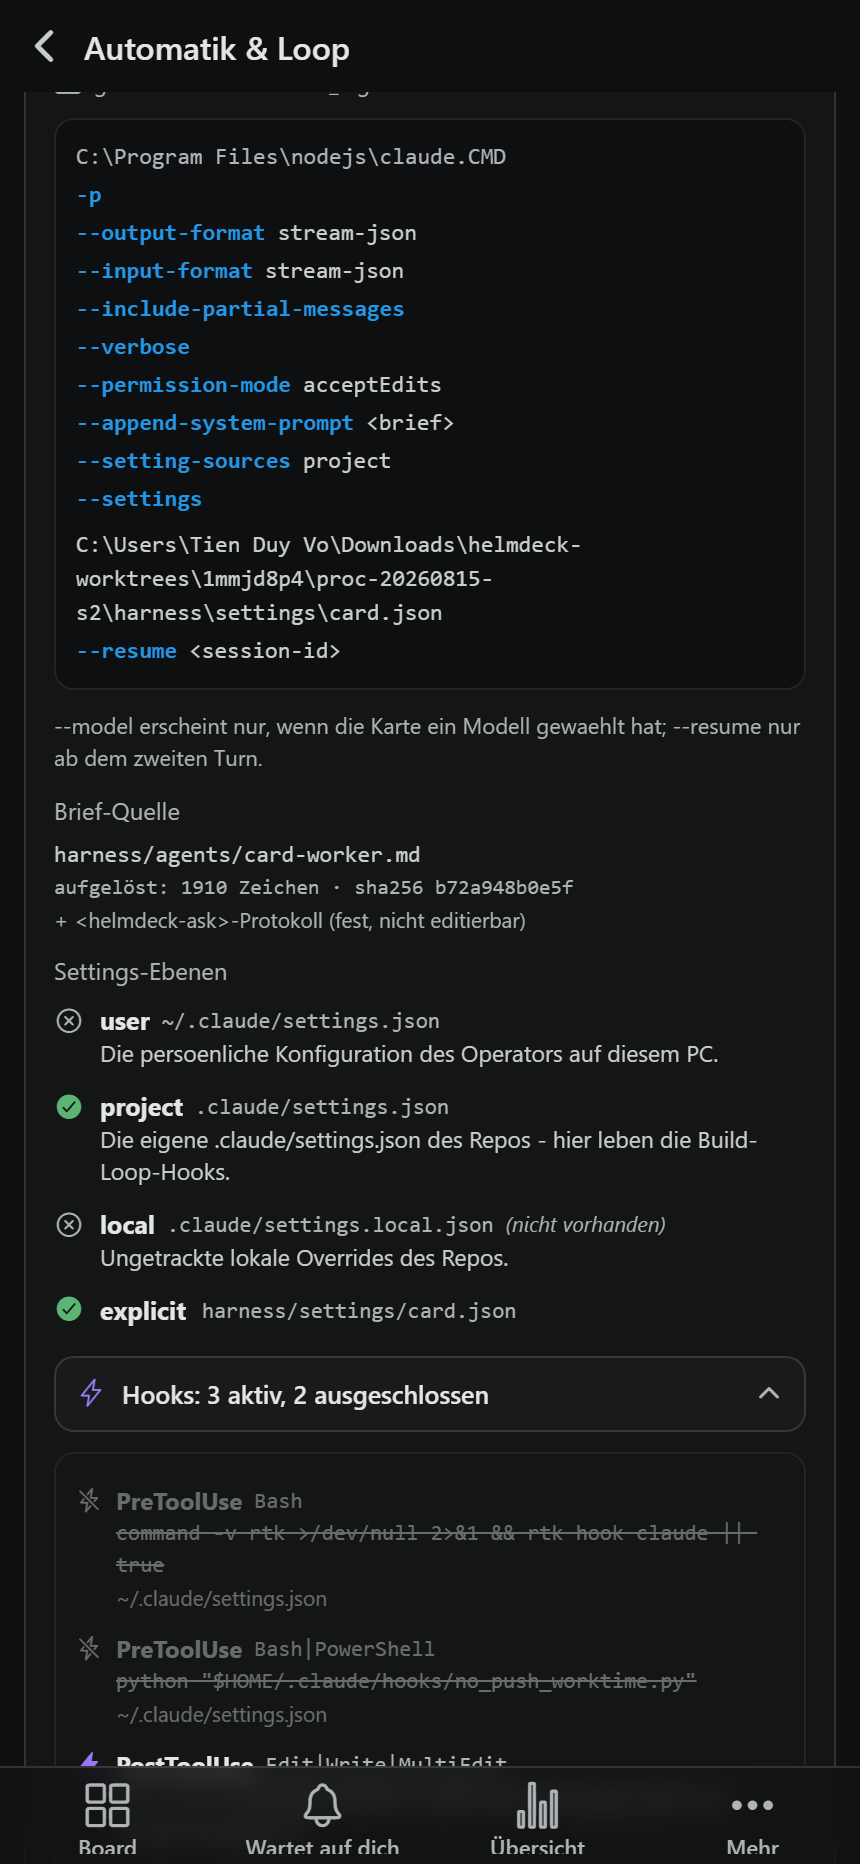
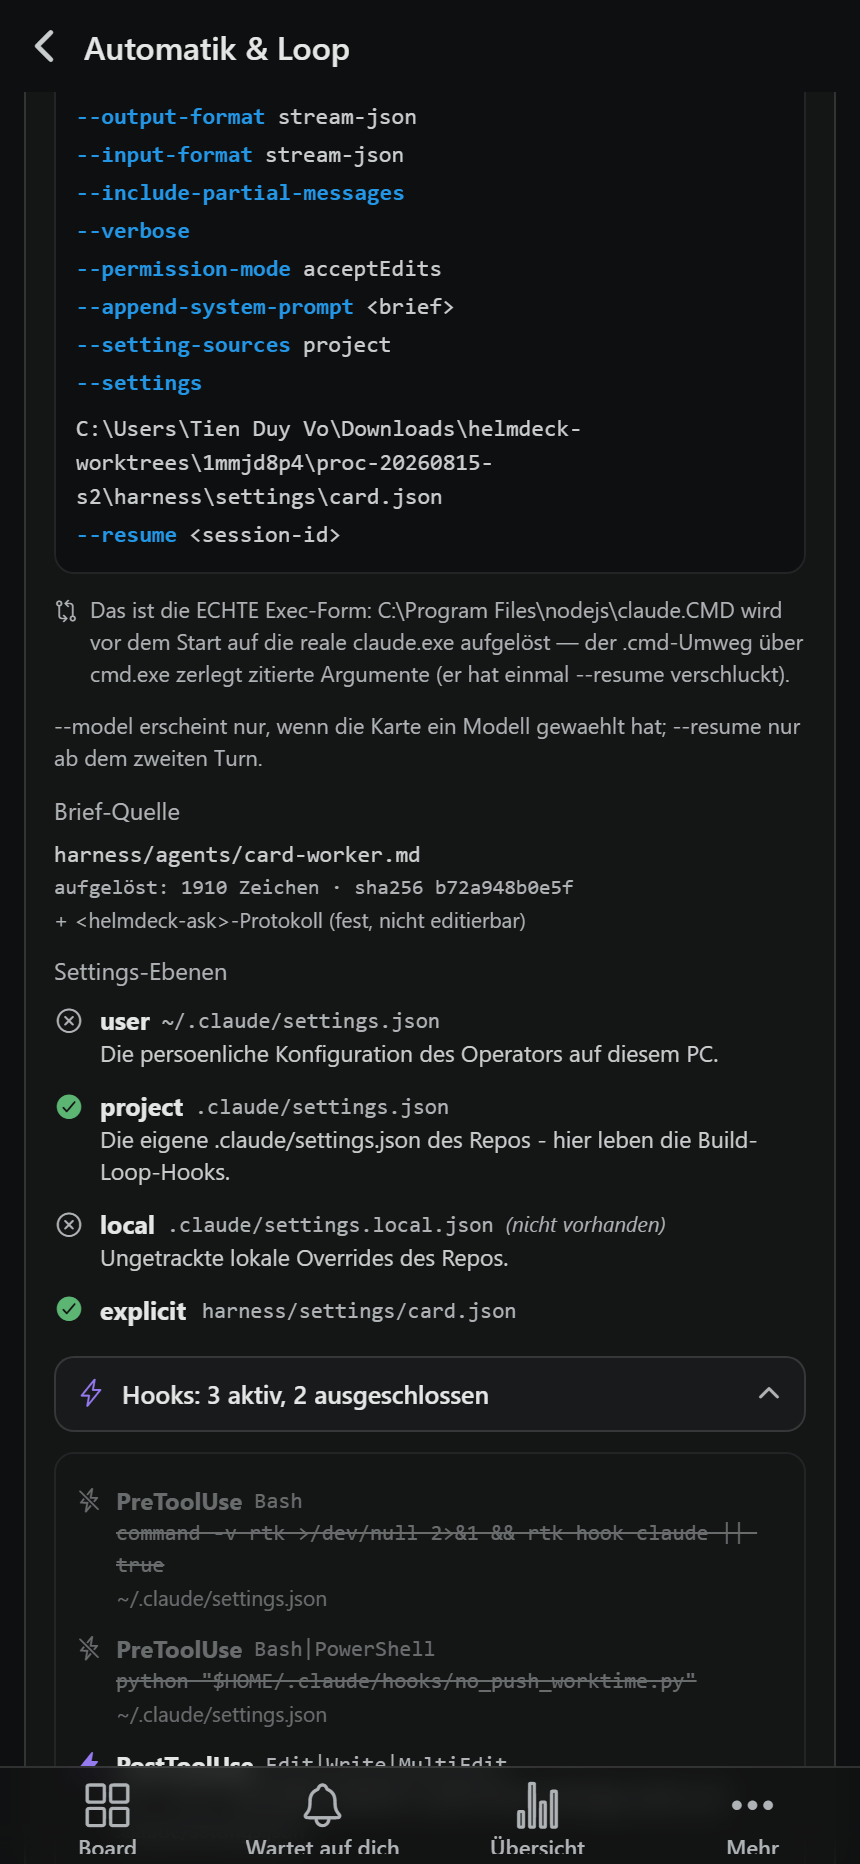
feat(harness): preview the REAL exec form, not just the logical argv
The preview showed argv[0] as `C:\Program Files\nodejs\claude.CMD` - which is
not what runs. drivers._cmd_line rewrites that shim to the real
bin\claude.exe before spawning, because routing a .cmd through cmd.exe mangles
quoted arguments. That is not a footnote: it is the bug that once ate --resume
and made every card worker start with a fresh mind.

So a preview that stopped at the logical argv was hiding the single most
consequential detail about how the process starts - the exact "correct on the
day it shipped, quietly wrong afterwards" failure this endpoint exists to
prevent. Now it runs the argv through the same _cmd_line the spawn uses and
shows the result, flags when a rewrite happened, and names the exec form
(argv-list vs the cmd.exe string that cannot carry quoted args safely).

Measured on this box:
  logical  C:\Program Files\nodejs\claude.CMD
  EXEC     ...\node_modules\@anthropic-ai\claude-code\bin\claude.exe
  form     argv-list, 18 flags preserved, --resume survives the rewrite

Judged again after the change: renders clearly at 430px, no console or page
errors, no collisions.

Changed region(s): [[0.0605, 0.0622, 0.9372, 0.3734], [0.5442, 0.0622, 0.5744, 0.0933]]

diff --git a/app/src/ui/harness_section.tsx b/app/src/ui/harness_section.tsx
@@ -119,7 +119,17 @@ function SpawnPreview({ p, t, tr }: {
 
       {p.argv_error ? (
         <Text style={{ color: t.danger, fontSize: 12 }}>{p.argv_error}</Text>
-      ) : <Argv argv={p.argv} t={t} />}
+      ) : <Argv argv={p.exec ?? p.argv} t={t} />}
+      {/* the .cmd -> .exe rewrite is the single most consequential detail of how
+          this process starts (the cmd.exe form once ate --resume), so say it */}
+      {p.exec_rewritten ? (
+        <View style={{ flexDirection: "row", alignItems: "flex-start", gap: 6 }}>
+          <Ionicons name="git-compare-outline" size={12} color={t.txtTertiary} style={{ marginTop: 2 }} />
+          <Text style={{ color: t.txtTertiary, fontSize: 11, lineHeight: 16, flex: 1 }}>
+            {tr("harness.execRewritten", { from: p.argv[0] })}
+          </Text>
+        </View>
+      ) : null}
       {p.note ? (
         <Text style={{ color: t.txtTertiary, fontSize: 11, lineHeight: 16 }}>{p.note}</Text>
       ) : null}

diff --git a/app/src/i18n/dict/screens.ts b/app/src/i18n/dict/screens.ts
@@ -71,6 +71,10 @@ export const screens: Dict = {
     en: "From the same builder the real spawn uses — so it cannot drift.",
   },
   "harness.builtBy": { de: "gebaut von {fn}", en: "built by {fn}" },
+  "harness.execRewritten": {
+    de: "Das ist die ECHTE Exec-Form: {from} wird vor dem Start auf die reale claude.exe aufgelöst — der .cmd-Umweg über cmd.exe zerlegt zitierte Argumente (er hat einmal --resume verschluckt).",
+    en: "This is the REAL exec form: {from} is resolved to the actual claude.exe before spawn — routing a .cmd through cmd.exe mangles quoted args (it once ate --resume).",
+  },
   "harness.briefSource": { de: "Brief-Quelle", en: "Brief source" },
   "harness.resolvedHash": {
     de: "aufgelöst: {n} Zeichen · sha256 {h}",

diff --git a/app/src/data/client.ts b/app/src/data/client.ts
@@ -254,7 +254,13 @@ export interface HarnessHook {
 }
 export interface HarnessPreview {
   key: string; agent: string; label: string; builder: string; cwd: string;
-  argv: string[]; argv_error?: string; note?: string;
+  /** the logical argv the builder produced */
+  argv: string[];
+  /** what is REALLY exec'd: drivers._cmd_line rewrites a claude.cmd shim to the
+   *  real bin/claude.exe, because routing a .cmd through cmd.exe mangles quoted
+   *  args — the bug that once ate --resume. */
+  exec?: string[]; exec_rewritten?: boolean; exec_form?: string;
+  argv_error?: string; note?: string;
   brief: {
     source: string; exists: boolean; file_sha256: string;
     resolved_sha256: string; resolved_chars: number; ask_protocol: boolean;

diff --git a/daemon/harness.py b/daemon/harness.py
@@ -768,6 +768,20 @@ def preview(surface_key, cfg=None):
             out["note"] = ("--model erscheint nur, wenn die Karte ein Modell gewaehlt hat; "
                            "--resume nur ab dem zweiten Turn.")
         out["argv"] = [str(a) for a in argv]
+        # THE EXEC FORM, not just the logical argv. drivers._cmd_line rewrites
+        # argv[0] before spawning: a `claude.cmd` shim is replaced by the real
+        # bin\claude.exe (or node + cli.js), because routing a .cmd through
+        # cmd.exe mangles quoted arguments - that is what once ATE --resume and
+        # made every worker start with a fresh mind. A preview that showed only
+        # the pre-rewrite form would hide the single most consequential thing
+        # about how this process actually starts.
+        import drivers as _d
+        exec_argv = _d._cmd_line(list(argv))
+        out["exec_form"] = ("argv-list" if _d.argv_form_safe(argv[0])
+                            else "cmd.exe-string (Argumente koennen verstuemmelt werden)")
+        out["exec"] = ([str(a) for a in exec_argv] if isinstance(exec_argv, list)
+                       else [str(exec_argv)])
+        out["exec_rewritten"] = bool(out["exec"] and out["exec"][0] != out["argv"][0])
     except Exception as e:                                   # noqa: BLE001
         out["argv"] = []
         out["argv_error"] = "%s: %s" % (type(e).__name__, str(e)[:200])
